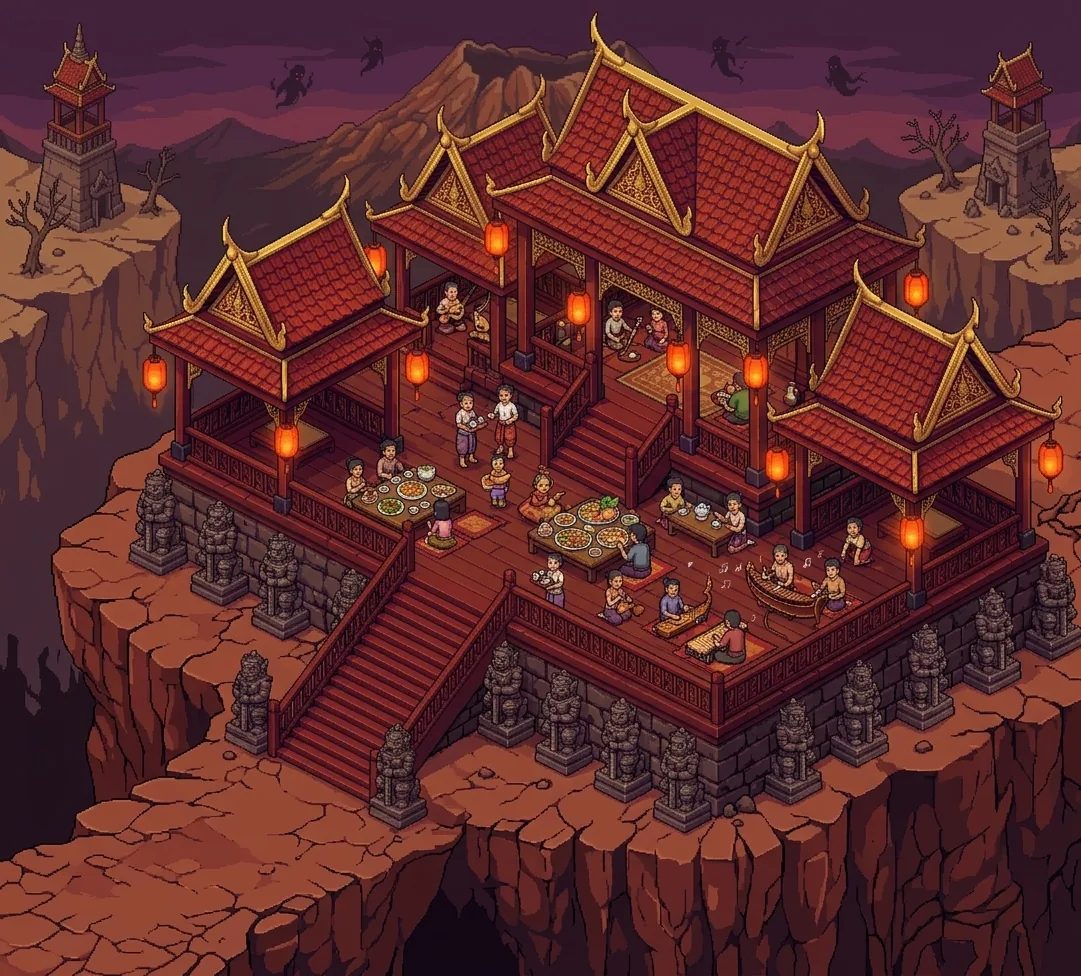
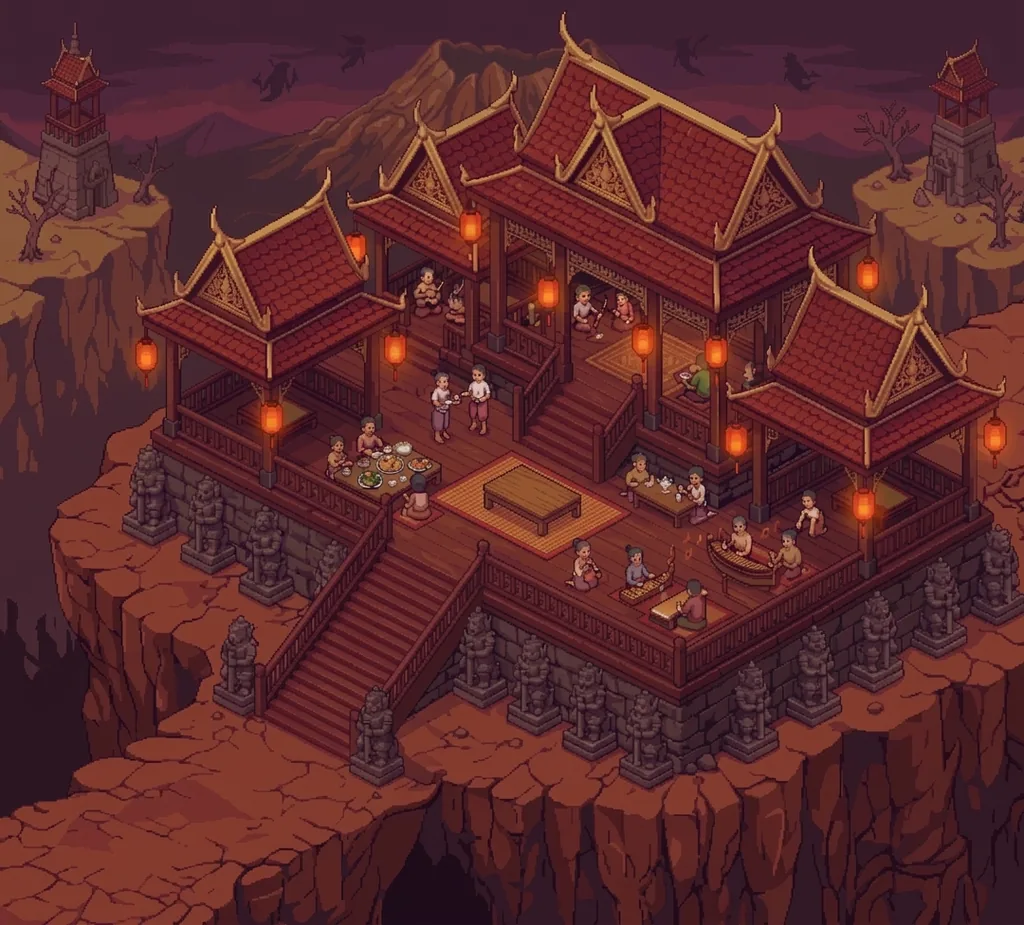
feat(tea): เปลี่ยนภาพศาลาน้ำชาใหม่ + ย้ายถ้วยน้ำชาไปวางบนโต๊ะ (ข้อ B)
1. แปลง img/raw/_BG-Tea.jpeg (1080×976, คุณเป้ gen ใหม่) เป็น img/BG-Tea.webp
   ด้วยวิธีเดียวกับ BG ห้องอื่น (resize เหลือกว้างสุด 1024 · webp quality 82) —
   ได้ไฟล์ 1024×925 ~103KB ตรงตามช่วงขนาดไฟล์ BG-* อื่น (101-106KB)

2. วัด crop/walk/act/item/me ใหม่ทั้งหมดเทียบกับภาพใหม่ (ของเดิมวัดกับภาพเก่าคนละ
   ใบ ใช้ไม่ได้เลย): ครอปซูมเข้าไปที่ชานเรือนที่มีโต๊ะไม้เตี้ยบนเสื่อลายส้มกลางลาน ·
   กรอบเดินได้เป็นรูปกากบาทครอบทั้งชานซ้าย-ขวา-กลาง · ย้ายจุดวางถ้วยน้ำชา (item) ไป
   บนโต๊ะกลางนั้นพอดี · จุดนั่งพัก (act) อยู่ข้างโต๊ะ

3. โซนบูรพา (zones.asia) ใช้ img/BG-Tea-asia.webp คนละไฟล์ — ไม่แตะเลย ตรวจแล้วยังทำงาน
   ปกติ (เห็นภาพร้านน้ำชาญี่ปุ่นเดิม เข้าห้องได้ปกติ)

ทดสอบจริงด้วย Playwright ที่ 1440 และ 390×844: เปิดห้องเห็นถ้วยน้ำชาวางบนโต๊ะกลาง ·
กด "นั่งพัก" ถ้วยหายจากโต๊ะ (ไปอยู่ในมือ, บารมีขึ้นจริง 40→42) · กด "ลุกขึ้น" ถ้วยกลับมา
บนโต๊ะเหมือนเดิม — กลไกเดิมยังทำงานถูกต้องครบ

ไฟล์: img/BG-Tea.webp (แทนที่), src/data.js (ROOMS.tea)
Unit test: node --test tests/*.test.mjs ผ่านครบ 13/13

diff --git a/src/data.js b/src/data.js
@@ -849,13 +849,15 @@ export const ROOMS = {
               act:[0.51,0.55], item:[0.35,0.79] } } },
   // ศาลาน้ำชาเดินขึ้นไปบนศาลาได้ด้วย ไม่ใช่เดินได้แค่ลานล่าง (เจ้าของสั่ง 10 ก.ย. 2569)
   // ข้อ D คุณเป้ 24 ก.ย. 2569 — ภาพเดิมวางทั้งหลังบนหน้าผา ดูไกลเกินไป ซูม/ครอปเข้าไปที่ตัวอาคาร
-  // (crop = [sx,sy,sw,sh] สัดส่วน 0-1 ของภาพ img/BG-Tea.webp ต้นฉบับ 1081×976 — วัดจากรูปจริง
-  // ไม่ได้วาดภาพใหม่ ดู room.js) me/walk/act/item ข้างล่างวัดใหม่เทียบกับกรอบที่ครอปแล้ว ไม่ใช่ภาพเต็มอีกต่อไป
-  // ตัดทางเดินบันได/หน้าผา (poly เดิมอันแรก) ทิ้งเพราะซูมแล้วมองไม่เห็นส่วนนั้นแล้ว เหลือแค่พื้นในศาลา
-  tea:    { crop:[0.1286,0.1844,0.8335,0.5533], souls:[], crew:null, me:[0.35,0.85],
+  // ข้อ B คุณเป้เจอ 25 ก.ย. 2569 (ชุดที่ 11) — เปลี่ยนภาพต้นฉบับใหม่ทั้งใบ (img/raw/_BG-Tea.jpeg
+  // 1080×976 → แปลงเป็น img/BG-Tea.webp แบบเดียวกับ BG ห้องอื่น: resize เหลือกว้างสุด 1024 แล้วเซฟ
+  // webp quality 82 ด้วยสคริปต์เดียวกับ scripts/prep-art.py ใช้กับไฟล์ BG-* — ไฟล์ผลลัพธ์ 1024×925)
+  // ภาพใหม่มีโต๊ะไม้เตี้ยบนเสื่อลายส้มอยู่กลางชานเรือนพอดี — crop/walk/act/item ทั้งหมดวัดใหม่จากศูนย์
+  // เทียบกับกรอบที่ครอปแล้ว (ไม่ใช่ภาพเต็ม 1024×925) เหมือนเดิม
+  tea:    { crop:[0.06,0.16,0.89,0.54], souls:[], crew:null, me:[0.40,0.82],
             walk:[
-              {poly:[[0.014,0.444],[0.842,0.281],[0.998,0.733],[0.71,0.95],[0.278,0.896],[0.134,0.697]]}
-            ], act:[0.41,0.787], item:[0.314,0.787],
+              {poly:[[0.0439,0.521],[0.0439,0.681],[0.3074,0.842],[0.527,0.922],[0.681,0.862],[0.944,0.842],[0.966,0.501],[0.7135,0.261],[0.527,0.170],[0.340,0.261]]}
+            ], act:[0.516,0.741], item:[0.516,0.631],
             // โซนเอเชียใช้ภาพคนละไฟล์ (BG-Tea-asia.webp) — ยังไม่ได้วัด crop ใหม่ให้ภาพนี้
             // ใส่ crop:null ชัด ๆ กันไม่ให้สืบทอดค่า crop ของภาพ th ไปครอปผิดตำแหน่ง (นอกสโคปข้อ D รอบนี้)
             zones:{asia:{crop:null, me:[0.28,0.93], walk:[
